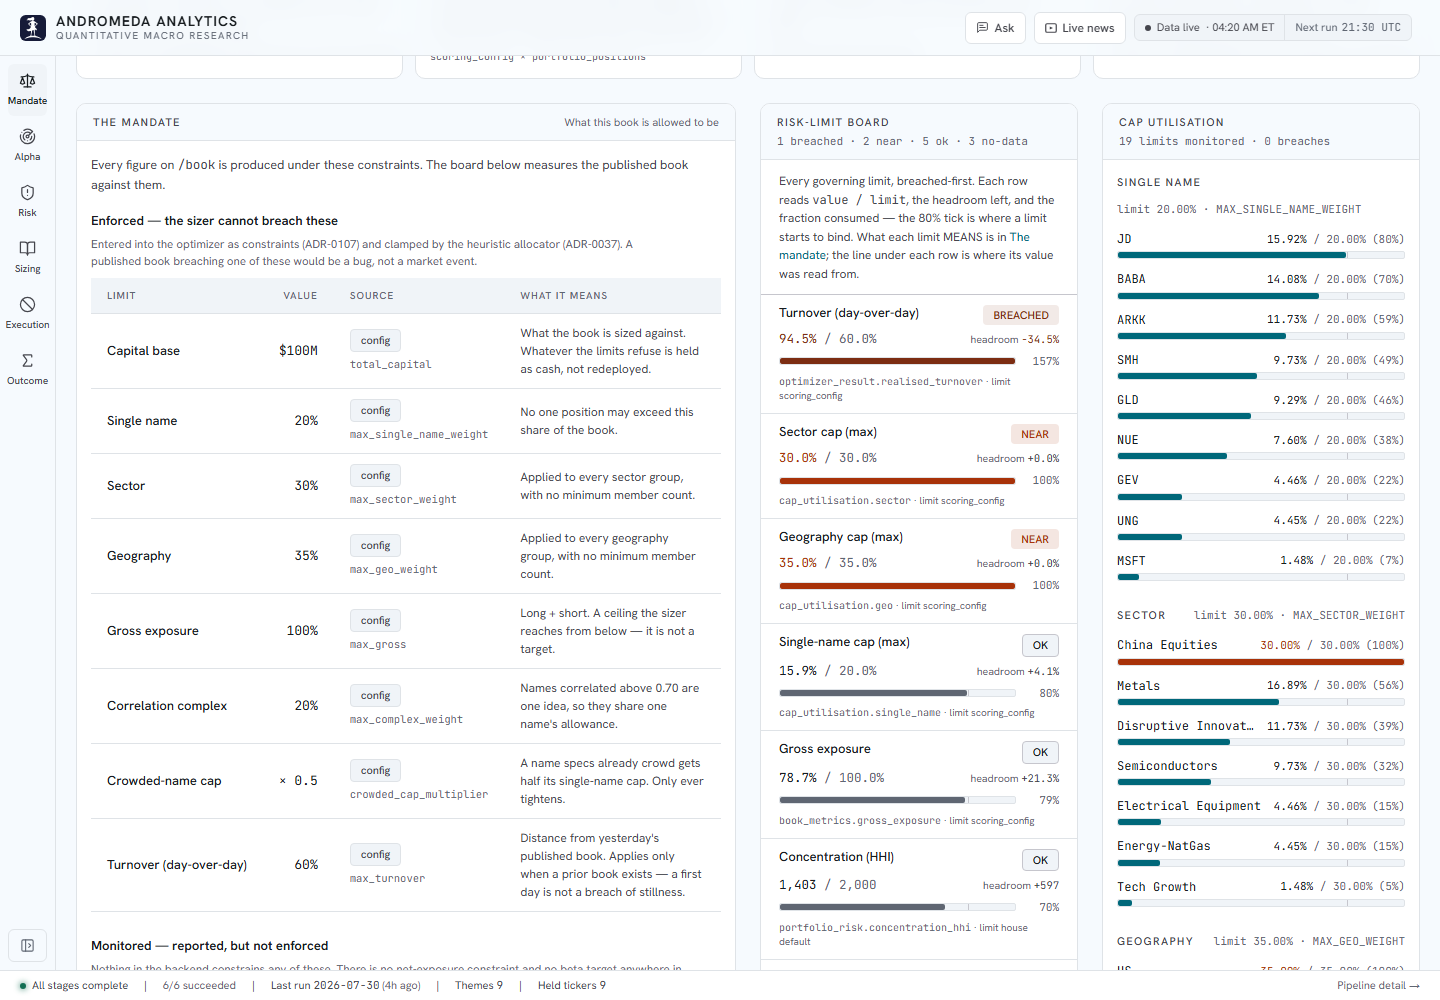
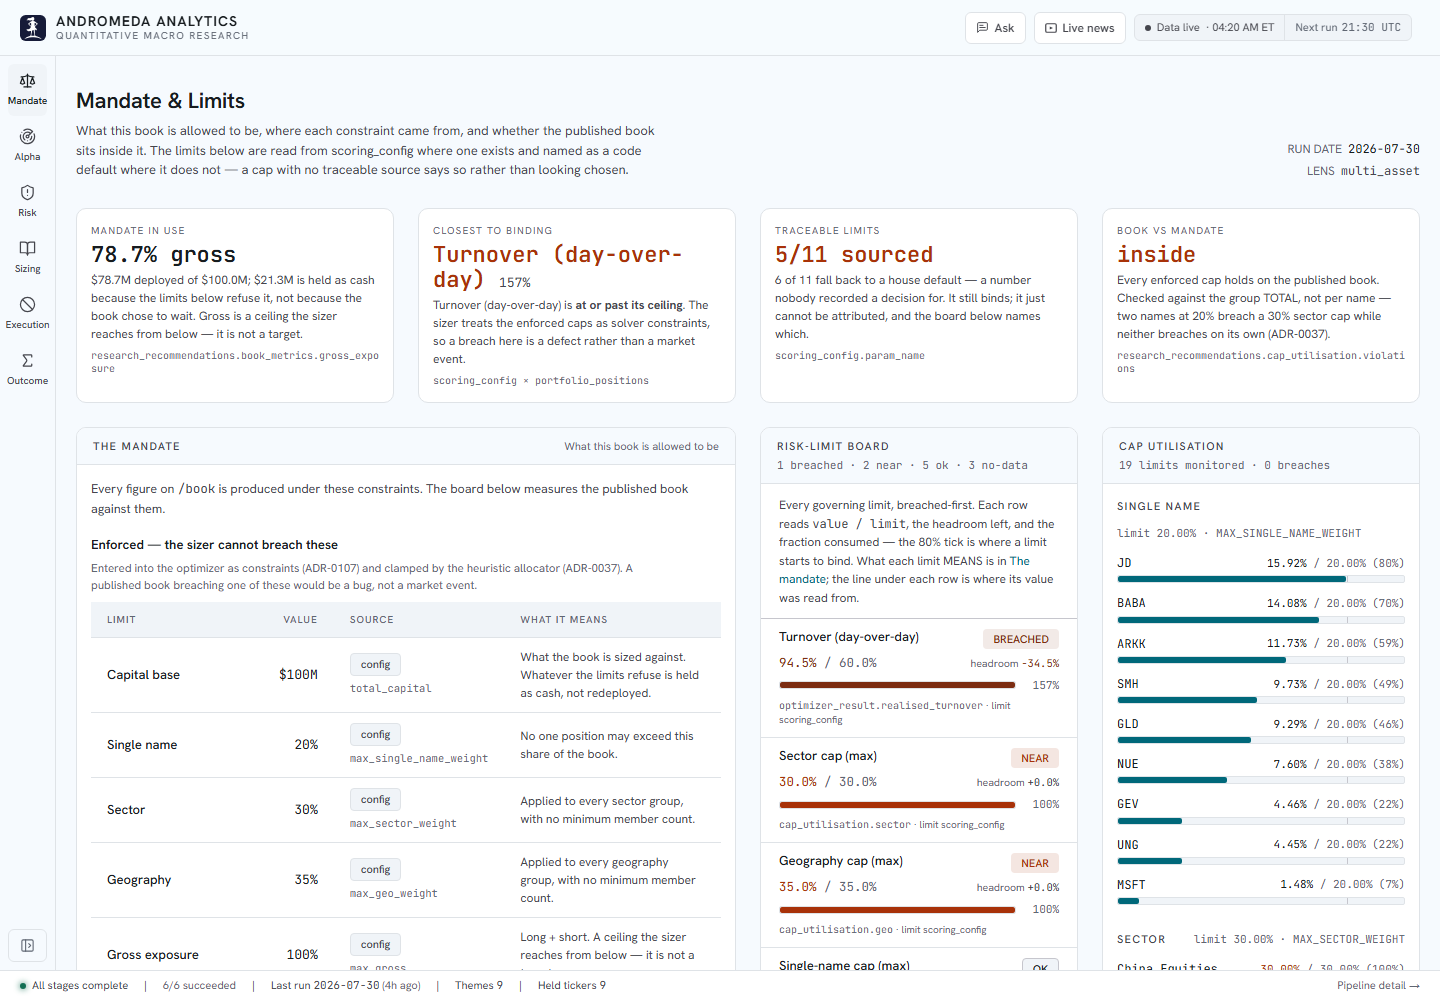
fix(ui): the answer row and its evidence share one ruler
Measured at 1440, AnswerRow ran 76-403 / 415-742 / 754-1081 / 1093-1420 against
a mandate row of 76-736 / 760-1078 / 1102-1420. Only the page gutters agreed;
every internal boundary was 6–9px out. Two causes:

  gap        gap-3 (12px) against the evidence row's gap-6 (24px)
  breakpoint wide:grid-cols-4 (1424) against xl:grid-cols-4 (1280) — so between
             those widths the page drew four evidence columns under two answer
             columns, which is a different layout, not a near miss

AnswerRow now takes the evidence grid's geometry: xl:grid-cols-4 gap-6. Both
halves come from the row below rather than being chosen here — a reader tracing
"5/11 sourced" down to the limit board is following a column. Exact at 1280,
1440 and 1500; unchanged below xl; /risk and /attribution keep identical answer
geometry.

The narrower columns exposed a live clipping bug that predates this change: the
answer card's source line is a bare table.column with no spaces to break on,
inside a card that clips rather than scrolls —
research_recommendations.book_metrics.gross_exposure measured 312px in a 288px
body and had its tail cut with nothing on screen to say so. Fixed with
[overflow-wrap:anywhere], the same remedy Ident already carries.

982 tests green, tsc clean, no console errors.

ADR-0187.

diff --git a/frontend/components/AnswerRow.tsx b/frontend/components/AnswerRow.tsx
@@ -82,21 +82,40 @@ export function Card({ label, figure, consequence, source, href, tone = "default
         <div className="text-[12px] text-text-secondary leading-[1.5]">
           {consequence}
         </div>
-        <div className="text-[10px] text-text-tertiary num mt-0.5">{source}</div>
+        {/* [overflow-wrap:anywhere] because these are table.column identifiers with
+            no spaces to break on, and `.card` CLIPS rather than scrolls: measured at
+            1440, `research_recommendations.book_metrics.gross_exposure` is 312px
+            inside a 288px body, so its tail was cut with nothing to say it had been.
+            The same remedy `Ident` in SectionGap.tsx already carries, for the same
+            reason — a source a reader cannot finish reading is not a source (goal 1).
+            Predates the column narrowing; that just made it wider of the mark. */}
+        <div className="text-[10px] text-text-tertiary num mt-0.5 [overflow-wrap:anywhere]">
+          {source}
+        </div>
       </div>
     </div>
   );
 }
 
 /**
- * The four-up grid. Four is not arbitrary: it is one screen-width of cards at
- * `wide`, and a fifth would push the evidence below it further down — which is the
- * defect this component exists to remove, reintroduced by its own growth.
+ * The four-up grid. Four is not arbitrary: it is one screen-width of cards, and a
+ * fifth would push the evidence below it further down — which is the defect this
+ * component exists to remove, reintroduced by its own growth.
+ *
+ * `xl:grid-cols-4 gap-6`, and BOTH halves of that are the evidence grid's, not
+ * this component's own taste (ADR-0187). An answer row sits directly above the
+ * cards that justify it, so at any viewport where the two disagree the reader
+ * sees two rulers: measured at 1440 the answer cards ran 76/403 · 415/742 ·
+ * 754/1081 · 1093/1420 against a mandate row of 76/736 · 760/1078 · 1102/1420 —
+ * every internal boundary 6–9px out, with only the page gutters agreeing. The gap
+ * was 12px against 24, and the four-up gate was `wide` (1424) against the row's
+ * `xl` (1280), so between those two widths the page also drew four evidence
+ * columns under two answer columns.
  */
 export default function AnswerRow({ cards }: { cards: AnswerCard[] }) {
   if (cards.length === 0) return null;
   return (
-    <div className="grid grid-cols-1 sm:grid-cols-2 wide:grid-cols-4 gap-3 mb-6">
+    <div className="grid grid-cols-1 sm:grid-cols-2 xl:grid-cols-4 gap-6 mb-6">
       {cards.map((c) => (
         <Card key={c.label} {...c} />
       ))}

diff --git a/docs/adrs/README.md b/docs/adrs/README.md
@@ -209,6 +209,8 @@ One ADR per file. Immutable once accepted — superseded ADRs are marked `supers
 
 | [0186](0186-the-distance-to-a-complex-is-a-picture-and-two-tabs-that-scroll-nowhere.md) | The distance to a complex is a picture, and two tabs that scroll nowhere -- two things from one message. (1) ADR-0185's Correlation-complex block was PROSE in a card of nineteen `weight / cap (util%)` bars, so it read as a footnote to them rather than the same kind of claim, and it could not answer the question a reader has when told nothing formed: HOW CLOSE was it? (2) The `Mandate` / `Limits` tab strip was measured redundant, not judged so -- `#mandate` and `#limits` are the two COLUMNS of one row, both beginning at y=474 and ending at y=2062, so two tabs scroll to the same pixel; worse, `SectionNav` picks the first visible id in DOCUMENT order, so with both entering the viewport simultaneously "Limits" could never win the active state -- ADR-0179 recorded that as a cost and left it, but it is not a cost, it is a control that cannot be right. Decision: a `CorrelationMeter` draws the book's most correlated held pair as a filled bar on a 0-1 CORRELATION scale, the threshold at which names become one idea as a tick, and mean |rho| as a mark below the track -- every number read from `book_metrics.correlation_summary` (`max_abs_pair`, `flag_threshold`, `mean_abs_corr`, `pair_count`). **`flag_threshold` closes the drift ADR-0185 left open**: that ADR accepted "the 0.70 threshold is prose, not data" on the belief the payload did not carry it -- it does, and the component no longer contains the number. It is deliberately NOT a `CapBar` (the scale is a correlation, not a weight against a cap); when a complex DOES form, that one IS a `CapBar` -- sigma member weight against `complex_pct`, drawn exactly like the three groups above it, because that is precisely what a complex is. The surviving prose says what the picture cannot: live, the closest pair sits **0.011 below the line**, and "BABA + JD hold 30.00% between them, which a crossing would measure against 20.00% instead of two separate single-name caps" -- both derived from rows already on the card. And `PHASE_SECTION_NAV.mandate` becomes `[]`, with the exemption as a NAMED LIST (`PHASES_WITHOUT_SECTION_NAV`) rather than a special case inside a component, so a phase that grows back to two screens has to be taken off it deliberately; the section IDS stay, because /risk still hops `#mandate` and `#limits` here as fragments and the limit board's own copy links to `#mandate` -- the strip went, the anchors did not. `risk-sections.test.ts` GAINS two tests rather than losing one: an exempt phase must have an EMPTY nav (half a strip says the sections it omits are elsewhere), and must still render its sections with their ids gated in `RiskBody`. Live at 1440: the meter draws `BABA + JD 0.689 / 0.70` with the mean mark at 0.222 across 36 pairs, the strip is gone, the three cards run **409 -> 1997px** (one baseline, 65px higher up the page), page 2101px against the 3026px this sequence started from; no overflow, no console errors, 982 frontend tests green, `tsc` clean. Costs: the meter is ONE PAIR, not the distribution -- a book with five pairs at 0.68 and a book with one look identical here, and `mean_abs_corr` over 36 pairs is a weak hedge (the full matrix is on /risk, and reproducing it here is the duplication ADR-0182/0185 refused); the "what a crossing would cost" sentence is a HYPOTHETICAL that computes the cap which would apply, not what the sizer would do -- a real complex is a connected component that could pull in a third name and the book would be re-solved rather than clipped, so a reader could take it as a prediction of the outcome; the mean mark has no label at its position, only in the legend below, because at 0.222 it sits where a floating label would collide with the axis start; and a phase with no jump strip has NO in-page navigation at all -- correct at 1588px on one screen, wrong the moment something is added below the row, and nothing enforces the height except the list and the reason written beside it. Rejected: drawing the correlation matrix or pair list here (it is /risk's `CorrelationMatrix`, and a single summary measure against the mandate's own threshold is a different claim from the heatmap); rendering the complex block only when a complex exists (a cap that appears and disappears makes absence indistinguishable from the feature not existing -- ADR-0185's argument, unchanged); keeping one tab and dropping the other (a strip with a single destination is the same non-control with better odds); keeping both tabs and fixing `SectionNav` to tie-break by column (a nav that must know about grid columns to say where you are is solving the wrong problem -- nothing here is out of reach) | accepted | 2026-07-30 |
 
+| [0187](0187-an-answer-row-and-its-evidence-share-one-ruler.md) | An answer row and its evidence share one ruler -- the owner reported that the first row of four answer cards does not line up with the cards below it. Measured at 1440: `AnswerRow` ran 76-403 / 415-742 / 754-1081 / 1093-1420 against a mandate row of 76-736 / 760-1078 / 1102-1420 -- only the page GUTTERS agreed, every internal boundary 6-9px out, because the two grids were built to different geometry despite sitting one above the other in the same container: **gap** `gap-3` (12px) against the evidence row's `gap-6` (24px), which alone lands four equal columns in different places, and **breakpoint** `wide:grid-cols-4` (1424) against `xl:grid-cols-4` (1280), so between those widths the page drew FOUR evidence columns under TWO answer columns -- not a misalignment so much as a different layout. `AnswerRow` is shared by /mandate, /risk and /attribution, so this was never mandate-specific; it is that until ADR-0179 nothing below an answer row had columns to disagree with. Decision: `AnswerRow` adopts the evidence grid's geometry, `xl:grid-cols-4 gap-6` -- both halves taken from the row BELOW rather than chosen here, because an answer row sits directly above the cards that justify it and a reader tracing "5/11 sourced" down to the limit board is following a column, which two rulers break. The four-up COUNT is unchanged and still justified in the component's own comment; `wide` was never a measured gate for this component the way it is in `tailwind.config.ts` for the two-pane book row -- the comment beside it justifies four CARDS, not the breakpoint. Verified exact at 1280 / 1440 / 1500: answer column 2 ends where the mandate card ends, column 3 spans the risk-limit board exactly, column 4 spans cap utilisation exactly; below `xl` both stack the same way; /risk and /attribution keep identical answer geometry; 982 frontend tests green, `tsc` clean. **It also surfaced a live clipping bug, the more useful half**: the answer card's source line is a bare `table.column` identifier with no spaces to break on and `.card` CLIPS rather than scrolls, so `research_recommendations.book_metrics.gross_exposure` measured **312px inside a 288px body** and its tail was cut with nothing on screen to say so -- a source a reader cannot finish reading is not a source (goal 1). It predates this change; narrower columns only made it wider of the mark. Fixed with `[overflow-wrap:anywhere]`, the same remedy `Ident` in `SectionGap.tsx` already carries for the same reason. Costs: answer cards are 9px narrower at 1440 and 316px narrower at 1280 (where they were two-up at 602px) -- four at 286px is tight, nothing overflows but the headline numbers now wrap to two lines there; the wrapped source line breaks MID-TOKEN (`...gross_expo / sure`), ugly and consistent with the established remedy, so consistency won over appearance; the alignment is NOT enforced -- two components must keep the same two Tailwind classes in step, with a comment in each and no test, since a drift test would have to parse both class strings; and /attribution still has two different rulers, correctly so, because its answer row is four-up and the risk-metric strip below it is five-up -- four answers and five statistics are not the same thing, so nothing there is traced down a column. Rejected: narrowing the evidence row to `gap-3` (`gap-6` is the card-grid gap everywhere else in this tree, so it would misalign the mandate row with every other paired grid to fix one row); moving the evidence row's four-up gate to `wide` (it would leave /mandate fully stacked from 1280 to 1423, a common laptop width, to fix an alignment that only exists above it); leaving it and accepting 6-9px (exactly the near-miss that reads as sloppiness rather than choice, on a page whose entire argument is that its numbers are careful) | accepted | 2026-07-30 |
+
 ## When to write an ADR
 
 - Any architectural choice you'd struggle to explain six months from now

diff --git a/PROGRESS.md b/PROGRESS.md
@@ -34,6 +34,7 @@ docs/
 
 | Date | Entry |
 |---|---|
+| 2026-07-30 | **The answer row and the evidence below it now share one ruler, and a source line that had been silently clipped for months got fixed on the way.** [ADR-0187](docs/adrs/0187-an-answer-row-and-its-evidence-share-one-ruler.md). Measured at 1440, `AnswerRow` ran 76-403 / 415-742 / 754-1081 / 1093-1420 against a mandate row of 76-736 / 760-1078 / 1102-1420: only the gutters agreed. Two causes -- `gap-3` against `gap-6`, and `wide:grid-cols-4` against `xl:grid-cols-4`, which between 1280 and 1423 drew four evidence columns under two answer columns. `AnswerRow` now takes the evidence grid's geometry (`xl:grid-cols-4 gap-6`), exact at 1280/1440/1500 and unchanged below `xl`. The narrower columns exposed that the answer cards' source line -- a bare `table.column` with no spaces to break on, inside a card that clips -- was 312px in a 288px body and had its tail cut with nothing to say so; `[overflow-wrap:anywhere]`, the same remedy `Ident` already carries. 982 tests green. |
 | 2026-07-30 | **The Correlation-complex block is a picture now, and /mandate's two-tab jump strip is gone because both tabs scrolled to the same pixel.** [ADR-0186](docs/adrs/0186-the-distance-to-a-complex-is-a-picture-and-two-tabs-that-scroll-nowhere.md). A `CorrelationMeter` draws the book's most correlated held pair on a 0-1 scale with a tick at the threshold where names become one idea and a mark at mean |rho| -- all four numbers from `book_metrics.correlation_summary`, including `flag_threshold`, which closes the "0.70 is prose not data" drift ADR-0185 accepted on the belief the payload lacked it. Live: `BABA + JD 0.689 / 0.70`, 0.011 below the line, holding 30.00% between them against a 20.00% complex cap. A formed complex renders as a real `CapBar` instead. Separately, `#mandate` and `#limits` are the two COLUMNS of one row (both 409->1997px), so the tabs scrolled to the same place and `SectionNav`'s document-order tie-break meant "Limits" could never be active -- `PHASE_SECTION_NAV.mandate` is now `[]` via a named `PHASES_WITHOUT_SECTION_NAV` list, with the section ids kept because /risk hops them as fragments. Two new tests, 982 green. Page 3026 -> 2101px across the day. |
 | 2026-07-30 | **The caps card now checks the one enforced mandate cap nothing on the site measured, and states whether the caps can see the whole book.** [ADR-0185](docs/adrs/0185-the-cap-the-page-listed-and-never-checked.md). Asked whether the white space under `Cap utilisation` had anything relevant to hold, the answer came from an audit rather than a fill: seven of `optimizer_result`'s eight unrendered fields are already on /book in `SizingProvenance`, and moving them here would be ADR-0182's duplication done on purpose. `complex_sizing` is rendered nowhere -- while `The mandate`, 660px to the left in the same row, lists Correlation complex 20% / `max_complex_weight` as ENFORCED, with no row on the limit board and no group here. So the card gains a Correlation-complex block (members, skipped groups with reasons, and ADR-0118's risk-budget multiple, which can bind while the capital bars show headroom) and a coverage sentence from a new tested `capCoverage()`: each grouping's rows summed against `book_metrics.gross_exposure`, since a ticker missing from SECTOR_MAP sits in no group and its cap cannot bind on it. Today all three reach 100% of a 78.74% gross book. Content 1131 -> 1313px of a 1588px cell; ~275px of slack left deliberately -- the whitespace was the prompt, not the justification. 5 new tests, 980 green. |
 | 2026-07-30 | **One string was quietly forcing the narrative board's figures table into a horizontal scrollbar, and the fix is scoped honestly.** [ADR-0184](docs/adrs/0184-a-column-with-no-ceiling-eventually-finds-one.md). Operator asked how to stop the table (in the 340px column beside the detection plane) from scrolling. Measured live: 347px of content against a 319px container. The table uses `table-layout: auto` — no ceiling, `w-full` is a target not a limit — and per-column measurement found ONE cell responsible: the Velocity column's `"not measurable"` string (rendered for a null reading) alone set that column to 78px, nearly as wide as Status (`"established"`), while every other value in it (`"+4.00"` etc) needed roughly a third of that. The component's own header comment had already documented this exact string as load-bearing for the table's min-content width — true when written, 28px wrong today. Fix: the cell now reads `"n/a"`, matching a word this SAME file already uses for the identical state two sections down (the `Emerging` block), with the fuller reason kept on a `title` attribute rather than deleted — satisfying ADR-0126's "never the only copy" rule since the tooltip is additive detail on an already-meaningful visible value, not the sole bearer of it. Verified live: `scrollDiv.scrollWidth === scrollDiv.clientWidth` (319=319), scrollbar gone, the previously-clipped `Found by` column now fully visible. 1 existing test updated in place, **975 frontend green** (unchanged count), `tsc --noEmit` clean. **Explicitly scoped, not oversold**: this closes today's measured overflow, not `table-layout: auto`'s actual ceiling — a narrative corroborated by both discovery methods renders `Found by` as `"frequency + lda + embedding"` (~27 characters, ADR-0133) and could reopen the scrollbar on a day that happens, at which point `table-layout: fixed` with explicit per-column proportions is the durable fix to reach for, deferred here because a single occurrence didn't yet justify a six-column redesign. Also worth recording: claimed ADR number 0179 collided with the concurrent session's own in-flight work (0179–0183, on `/mandate`'s cap-utilisation card) — caught by checking `ls docs/adrs/` immediately before writing, per the shared-worktree protocol, and renumbered to 0184 before anything was committed |

diff --git a/docs/adrs/0187-an-answer-row-and-its-evidence-share-one-ruler.md b/docs/adrs/0187-an-answer-row-and-its-evidence-share-one-ruler.md
@@ -1,0 +1,96 @@
+---
+status: accepted
+date: 2026-07-30
+deciders: platform owner
+---
+
+# ADR-0187 — An answer row and its evidence share one ruler
+
+## Context
+
+The owner reported that the first row of four answer cards does not line up with
+the cards below it.
+
+Measured at 1440, the two grids' column edges:
+
+| | left / right, per column |
+|---|---|
+| `AnswerRow` | 76–403 · 415–742 · 754–1081 · 1093–1420 |
+| The mandate row | 76–736 · 760–1078 · 1102–1420 |
+
+Only the page gutters agreed. Every internal boundary was 6–9px out, because the
+two grids were built to different geometry despite sitting one above the other in
+the same container:
+
+- **gap** — `gap-3` (12px) against the evidence row's `gap-6` (24px), which alone
+  makes four equal columns land in different places.
+- **breakpoint** — `wide:grid-cols-4` (1424) against `xl:grid-cols-4` (1280). So
+  between 1280 and 1423 the page drew **four evidence columns under two answer
+  columns**, which is not a misalignment so much as a different layout.
+
+`AnswerRow` is shared by `/mandate`, `/risk` and `/attribution`, so this was
+never specific to the mandate row — it is just that until ADR-0179 nothing below
+an answer row had columns to disagree with.
+
+## Decision
+
+**`AnswerRow` adopts the evidence grid's geometry: `xl:grid-cols-4 gap-6`.**
+
+Both halves are taken from the row below rather than chosen here. An answer row
+sits directly above the cards that justify it; a reader tracing "5/11 sourced"
+down to the limit board is following a column, and two rulers on one page break
+that. The four-up count is unchanged and still justified in the component's own
+comment — this changes where the columns fall, not how many there are.
+
+`wide` (1424) was not a measured gate for this component the way it is in
+`tailwind.config.ts` for the two-pane book row; the comment beside it justifies
+**four cards**, not the breakpoint. `xl` is where the grid it must match turns
+four-up.
+
+## Consequences
+
+Alignment is now exact at every width where both grids are four-up — verified at
+1280, 1440 and 1500: answer column 2 ends where the mandate card ends, column 3
+spans the risk-limit board exactly, column 4 spans cap utilisation exactly. Below
+`xl` both stack the same way. `/risk` and `/attribution` keep identical answer
+geometry. No overflow, no console errors, 982 frontend tests green, `tsc` clean.
+
+**It also surfaced a live clipping bug, which is the more useful half.** The
+answer card's source line is a bare `table.column` identifier with no spaces to
+break on, and `.card` clips rather than scrolls:
+`research_recommendations.book_metrics.gross_exposure` measured **312px inside a
+288px body**, so its tail was cut with nothing on screen to say so — a source a
+reader cannot finish reading is not a source (goal 1). It predates this change;
+narrower columns only made it wider of the mark. Fixed with
+`[overflow-wrap:anywhere]`, the same remedy `Ident` in `SectionGap.tsx` already
+carries for the same reason, with the same measurement in its comment.
+
+Costs:
+
+- **Answer cards are 9px narrower at 1440 and 316px narrower at 1280**, where
+  they were previously two-up at 602px. Four cards at 286px is tight; verified no
+  element overflows at that width, but the headline numbers (`Turnover
+  (day-over-day)`) now wrap to two lines there.
+- **The wrapped source line breaks mid-token** — `...gross_expo / sure`. Ugly,
+  and the established alternative in this tree, so consistency won over
+  appearance. A `word-break` that respects `_` and `.` boundaries would be
+  better and does not exist in CSS without hyphenation hints.
+- **The alignment is not enforced.** Two components now have to keep the same two
+  Tailwind classes in step, with a comment in each and no test. A drift test
+  would have to parse both class strings, which is brittle in a different way.
+- **`/attribution` still has two different rulers**, and correctly so: its answer
+  row is four-up and the risk-metric strip below it is five-up. Four answers and
+  five statistics are not the same thing, so nothing there is being traced down a
+  column.
+
+Rejected:
+
+- **Narrow the evidence row to `gap-3`.** `gap-6` is the card-grid gap everywhere
+  else in this tree; changing it would misalign the mandate row with every other
+  paired grid to fix one row.
+- **Move the evidence row's four-up gate to `wide`.** It would leave `/mandate`
+  fully stacked from 1280 to 1423 — a common laptop width — to fix an alignment
+  that only exists above it.
+- **Leave it and accept 6–9px.** It is exactly the kind of near-miss that reads
+  as sloppiness rather than as a choice, on a page whose entire argument is that
+  its numbers are careful.
